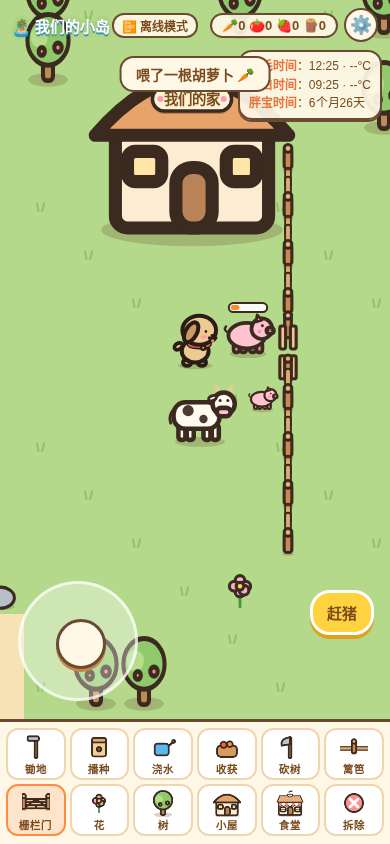
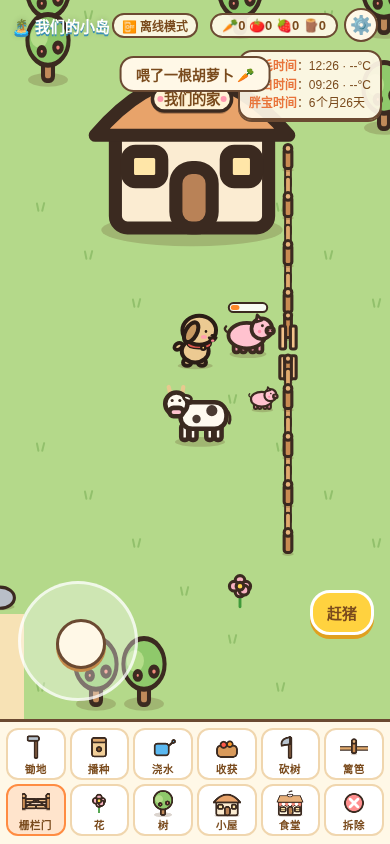
v25: 胖宝 hunger + feeding picker

Changed region(s): [[0.4, 0.4621, 0.6154, 0.5237]]

diff --git a/js/baby.js b/js/baby.js
@@ -7,19 +7,42 @@ const BABY_SAY={
  hop:['胖宝蹦蹦跳跳','胖宝超开心！','胖宝转圈圈','胖宝跳起来了'],
  carry:['放开我~','胖宝挣扎中','胖宝要下来','幸福的胖宝','胖宝蹬蹬腿','被抱住啦！','胖宝跑不掉了','胖宝在爸爸妈妈怀里'],
  dad:['爸爸的胡子扎扎的','爸爸举高高！','胖宝想爸爸好久了','爸爸什么时候回家呀','爸爸抱得好稳','胖宝抓爸爸头发','爸爸身上暖暖的','胖宝骑在爸爸肩上','爸爸讲故事给胖宝听','胖宝亲了爸爸一口','爸爸最厉害了','胖宝给爸爸摸摸头','爸爸的肚子软软的','爸爸不要走好不好','胖宝在爸爸怀里偷笑'],
- mom:['妈妈香香的','妈妈辛苦啦','胖宝要妈妈亲亲','妈妈最好了','胖宝在妈妈怀里睡着了','胖宝要吃奶奶','妈妈的手软软的','胖宝蹭蹭妈妈','妈妈唱歌给胖宝听','胖宝最爱妈妈了','妈妈抱抱就不哭了','胖宝帮妈妈捶捶背','妈妈今天好漂亮','胖宝在妈妈怀里撒娇','妈妈陪胖宝玩'],
+ mom:['妈妈香香的','妈妈辛苦啦','胖宝要妈妈亲亲','妈妈最好了','胖宝在妈妈怀里睡着了','胖宝要妈妈摸摸头','妈妈的手软软的','胖宝蹭蹭妈妈','妈妈唱歌给胖宝听','胖宝最爱妈妈了','妈妈抱抱就不哭了','胖宝帮妈妈捶捶背','妈妈今天好漂亮','胖宝在妈妈怀里撒娇','妈妈陪胖宝玩'],
+ hungry:['胖宝饿饿…','肚子咕噜咕噜','胖宝没力气了','胖宝想吃胡萝卜','胖宝闻到菜香了','胖宝肚肚瘪瘪的','给胖宝一点吃的嘛'],
+ veryhungry:['胖宝好饿好饿…','肚子咕噜咕噜咕噜！','胖宝饿得走不动了','呜呜，要吃饭饭'],
+ hdad:['爸爸，胖宝饿饿…','爸爸给胖宝种胡萝卜吧','爸爸的肚子也咕噜了吗','爸爸快去收菜菜'],
+ hmom:['妈妈，胖宝饿饿…','妈妈给胖宝做好吃的','妈妈，肚子咕噜咕噜','妈妈喂胖宝吃菜菜'],
+ full:['胖宝吃饱饱啦！','胖宝肚肚圆滚滚','好开心呀！','胖宝浑身是劲','胖宝想去探险！','吃饱了就要玩！'],
  tap:['最喜欢爸爸妈妈了！','胖宝爱你哦 ❤','抱抱～','嘿嘿，好痒','亲亲！','胖宝今天很乖哦','要一直在一起哦','爸爸妈妈辛苦啦']};
 const pick=a=>a[Math.random()*a.length|0];
+// ---- hunger: state.baby.fed[role]={full,at}; newest 'at' wins (each phone writes only its own key => no merge fights) ----
+const FOOD={carrot:{name:'胡萝卜',ic:'🥕',amt:25},tomato:{name:'番茄',ic:'🍅',amt:30},strawberry:{name:'草莓',ic:'🍓',amt:35}};
+const myRole=()=>window.Sync&&Sync.auth?Sync.auth.role:'me';
+function feedRec(){babyName();const f=state.baby.fed||{};let b=null;for(const k in f){const v=f[k];if(v&&v.at&&(!b||v.at>b.at))b=v}return b}
+function fullness(now=Date.now()){const b=feedRec();if(!b){state.baby.fed={[myRole()]:{full:80,at:now}};save();return 80}return Math.max(0,Math.min(100,b.full-(now-b.at)/36e5*7.5))}
+const hunger=()=>{const f=fullness();return f>=80?0:f>=55?1:f>=10?2:3}; // 0 full,1 ok,2 hungry(~6h),3 very hungry(~12h)
+function feedBaby(k){if(!(state.inv[k]>0))return toast('没有'+FOOD[k].name+'了');state.inv[k]--;const f=Math.min(100,fullness()+FOOD[k].amt);state.baby.fed=state.baby.fed||{};state.baby.fed[myRole()]={full:+f.toFixed(1),at:Date.now()};
+ save();renderInv();baby.heart=1.6;say(f>=80?pick(['好好吃！胖宝吃饱饱啦','吧唧吧唧，好香！','谢谢爸爸妈妈～']):pick(['好好吃！还想要','吧唧吧唧','胖宝舔舔嘴巴']));toast('胖宝吃了'+FOOD[k].ic+FOOD[k].name);renderPick()}
+function lineFor(kind){const h=hunger();if(h>=2){const dad=(localStorage.getItem('our-island-char')||'yellow')==='yellow';
+  if((kind==='carry'||kind==='tap')&&Math.random()<.5)return pick(BABY_SAY[dad?'hdad':'hmom']);return pick(BABY_SAY[h===3?'veryhungry':'hungry'])}
+ if(h===0&&Math.random()<.5)return pick(BABY_SAY.full);return null}
+const pickEl=document.getElementById('foodPick'),feedBabyBtn=document.getElementById('feedBaby');
+function renderPick(){const L=Object.keys(FOOD).filter(k=>state.inv[k]>0);
+ document.getElementById('foodList').innerHTML=L.length?L.map(k=>`<button data-food="${k}">${FOOD[k].ic}<b>${FOOD[k].name}</b><small>×${state.inv[k]}</small></button>`).join(''):'<p class="empty">没有吃的了，快去种菜收获吧</p>';
+ document.getElementById('foodFull').textContent='饱饱度 '+Math.round(fullness())+'%'}
+feedBabyBtn.addEventListener('pointerdown',e=>{e.preventDefault();renderPick();pickEl.classList.remove('hidden')});
+document.getElementById('foodList').addEventListener('click',e=>{const b=e.target.closest('[data-food]');if(b)feedBaby(b.dataset.food)});
+document.getElementById('foodClose').onclick=()=>pickEl.classList.add('hidden');
 const baby={x:0,y:0,dir:0,mode:'idle',t:1,tx:0,ty:0,phase:0,bub:'',bubT:0,nextBub:3,hop:0,heart:0,init:false,carried:false,sprint:0,puffs:[]};
 function babySprint(){const p=state.player;for(let k=0;k<24;k++){const a=Math.atan2(baby.y-p.y,baby.x-p.x)+(Math.random()-.5)*1.6,d=4+Math.random()*2,tx=baby.x+Math.cos(a)*d,ty=baby.y+Math.sin(a)*d;
   if(babyFree(tx,ty)){baby.mode='walk';baby.t=2.6;baby.tx=tx;baby.ty=ty;baby.sprint=2.2;say('胖宝狂奔');return true}}return false}
 const grabBtn=document.getElementById('grab');
 function setGrab(show,txt){if(grabBtn.classList.contains('hidden')===show)grabBtn.classList.toggle('hidden',!show);if(grabBtn.textContent!==txt)grabBtn.textContent=txt}
 grabBtn.addEventListener('pointerdown',e=>{e.preventDefault();baby.carried?babyDrop():babyGrab()});
-function carryLine(){return Math.random()<.4?pick(BABY_SAY[(localStorage.getItem('our-island-char')||'yellow')==='yellow'?'dad':'mom']):pick(BABY_SAY.carry)}
-function babyGrab(){baby.carried=true;baby.mode='carry';baby.nextBub=1.5;say(carryLine())}
+function carryLine(){const h=lineFor('carry');if(h)return h;return Math.random()<.4?pick(BABY_SAY[(localStorage.getItem('our-island-char')||'yellow')==='yellow'?'dad':'mom']):pick(BABY_SAY.carry)}
+function babyGrab(){feedBabyBtn.classList.remove('hidden');baby.carried=true;baby.mode='carry';baby.nextBub=1.5;say(carryLine())}
 function babyDrop(){const p=state.player,d=[[0,1],[0,-1],[-1,0],[1,0]][p.dir];const c=[d,[0,1],[1,0],[-1,0],[0,-1]];
- for(const[dx,dy]of c){const x=Math.floor(p.x)+dx+.5,y=Math.floor(p.y)+dy+.5;if(babyFree(x,y)){baby.x=x;baby.y=y;baby.carried=false;if(Math.random()<.5&&babySprint())return;babyMode('hop',1.2);say(pick(['胖宝自由啦～','胖宝落地啦','胖宝开心地蹦了蹦','胖宝站稳啦']));return}}toast('这里放不下胖宝')}
+ for(const[dx,dy]of c){const x=Math.floor(p.x)+dx+.5,y=Math.floor(p.y)+dy+.5;if(babyFree(x,y)){baby.x=x;baby.y=y;baby.carried=false;feedBabyBtn.classList.add('hidden');pickEl.classList.add('hidden');if(Math.random()<.5&&babySprint())return;babyMode('hop',1.2);say(pick(['胖宝自由啦～','胖宝落地啦','胖宝开心地蹦了蹦','胖宝站稳啦']));return}}toast('这里放不下胖宝')}
 function babyHome(){for(const k in state.obj)if(state.obj[k]==='house'||state.obj[k]==='canteen')return[k%W+.5,(k/W|0)+2.5];return[state.player.x,state.player.y+1]}
 function babyFree(x,y){const r=.2;return![[x-r,y-.05],[x+r,y-.05],[x-r,y+.15],[x+r,y+.15]].some(([a,b])=>blocked(Math.floor(a),Math.floor(b)))}
 function babyName(){state.baby=state.baby||{name:'胖宝'};return state.baby.name||'胖宝'}
@@ -34,13 +57,13 @@ function babyUpdate(dt){if(!baby.init){const[hx,hy]=babyHome();baby.x=hx+1;baby.
  if(baby.carried){baby.x=p.x;baby.y=p.y;baby.phase+=dt*40;setGrab(true,'放下胖宝');if(baby.nextBub<0){say(carryLine());baby.nextBub=3+Math.random()*4}return}
  const dp=Math.hypot(p.x-baby.x,p.y-baby.y);setGrab(dp<1.5,'抓住胖宝');
  if(dp<.6&&baby.mode!=='walk'){babyMode('walk',4)}
- if(baby.mode==='walk'){const dx=baby.tx-baby.x,dy=baby.ty-baby.y,d=Math.hypot(dx,dy),sp=1.6*dt*(baby.sprint>0?2.7:1);if(baby.sprint>0&&Math.random()<dt*12)baby.puffs.push({x:baby.x,y:baby.y+.1,t:.5});
-  if(d<.1||baby.t<0){const r=Math.random();babyMode(r<.45?'idle':r<.65?'sit':r<.8?'sleep':'hop',r<.65?2+Math.random()*4:r<.8?6+Math.random()*6:1.5)}
+ if(baby.mode==='walk'){const dx=baby.tx-baby.x,dy=baby.ty-baby.y,d=Math.hypot(dx,dy),sp=1.6*dt*(baby.sprint>0?2.7:1)*[1.25,1,.6,.4][hunger()];if(baby.sprint>0&&Math.random()<dt*12)baby.puffs.push({x:baby.x,y:baby.y+.1,t:.5});
+  if(d<.1||baby.t<0){const r=Math.random();const h=hunger();if(h>=2)babyMode(r<.35?'idle':r<.85?'sit':'sleep',h===3?5+Math.random()*6:3+Math.random()*4);else if(h===0&&r<.35)babyMode('hop',1.5);else babyMode(r<.45?'idle':r<.65?'sit':r<.8?'sleep':'hop',r<.65?2+Math.random()*4:r<.8?6+Math.random()*6:1.5)}
   else{const vx=dx/d*sp,vy=dy/d*sp;baby.dir=Math.abs(dx)>Math.abs(dy)?(dx<0?2:3):(dy<0?1:0);let moved=false;
    if(babyFree(baby.x+vx,baby.y)){baby.x+=vx;moved=true}if(babyFree(baby.x,baby.y+vy)){baby.y+=vy;moved=true}if(!moved)babyMode('walk',3)}}
- else{if(baby.mode==='hop')baby.hop+=dt;if(baby.t<0)babyMode(Math.random()<.75?'walk':'hop',2+Math.random()*3)}
- if(baby.nextBub<0)say(pick(BABY_SAY[baby.mode]||BABY_SAY.idle))}
-function babyTap(wx,wy){if(baby.carried)return false;if(Math.hypot(wx-baby.x,wy-(baby.y-.35))>.7)return false;babyMode('hop',1.2);baby.heart=1.6;say(pick(BABY_SAY.tap));return true}
+ else{if(baby.mode==='hop')baby.hop+=dt;if(baby.t<0){const h=hunger();babyMode(Math.random()<[.85,.75,.45,.25][h]?'walk':h>=2?'sit':'hop',2+Math.random()*3)}}
+ if(baby.nextBub<0)say(lineFor(baby.mode)||pick(BABY_SAY[baby.mode]||BABY_SAY.idle))}
+function babyTap(wx,wy){if(baby.carried)return false;if(Math.hypot(wx-baby.x,wy-(baby.y-.35))>.7)return false;babyMode('hop',1.2);baby.heart=1.6;say(lineFor('tap')||pick(BABY_SAY.tap));return true}
 function babyDraw(){const b=baby;if(b.carried)return drawCarried();for(const f of b.puffs){ctx.globalAlpha=f.t*1.6;ctx.beginPath();ctx.arc(f.x*T,f.y*T,(1-f.t)*T*.35+4,0,7);ctx.fillStyle='#f3e6cc';ctx.fill();ctx.lineWidth=2;ctx.strokeStyle='#d8c39a';ctx.stroke()}ctx.globalAlpha=1;const sleeping=b.mode==='sleep',sit=b.mode==='sit'||sleeping;let jump=0;
  if(b.mode==='hop')jump=Math.abs(Math.sin(b.hop*7))*.35;
  const X=b.x*T,Y=(b.y-jump)*T,sz=T*1.05;
@@ -49,7 +72,7 @@ function babyDraw(){const b=baby;if(b.carried)return drawCarried();for(const f o
  const font=`900 ${T*.26}px "Yuanti SC","PingFang SC",sans-serif`;ctx.textAlign='center';ctx.textBaseline='middle';
  // name label
  const name=babyName(),ny=Y-sz*1.0;ctx.font=font;const nw=ctx.measureText(name).width+14;
- ctx.beginPath();ctx.roundRect(X-nw/2,ny-11,nw,22,11);ctx.fillStyle='rgba(255,255,255,.92)';ctx.fill();ctx.lineWidth=2;ctx.strokeStyle='#f5a623';ctx.stroke();ctx.fillStyle='#d9822b';ctx.fillText(name,X,ny+1);
+ ctx.beginPath();ctx.roundRect(X-nw/2,ny-11,nw,22,11);ctx.fillStyle='rgba(255,255,255,.92)';ctx.fill();ctx.lineWidth=2;ctx.strokeStyle='#f5a623';ctx.stroke();ctx.fillStyle='#d9822b';ctx.fillText(name,X,ny+1);babyBar(X,ny+13);
  // zzz
  if(sleeping){ctx.fillStyle='#6b8fd6';ctx.font=`900 ${T*.24}px sans-serif`;for(let k=0;k<3;k++){const ph=(performance.now()/900+k/3)%1;ctx.globalAlpha=1-ph;ctx.fillText('z',X+sz*.35+ph*14,ny-6-ph*22);}ctx.globalAlpha=1}
  // heart
@@ -66,4 +89,9 @@ function drawCarried(){const b=baby,p=state.player,X=p.x*T,Y=(p.y-.12)*T,sz=T*.8
  const ny=Y-sz*1.05;ctx.textAlign='center';ctx.textBaseline='middle';
  if(b.bubT>0){ctx.font=`800 ${T*.27}px "PingFang SC",sans-serif`;const tw=ctx.measureText(b.bub).width+20,by=ny-40;ctx.globalAlpha=Math.min(1,b.bubT*2);
   ctx.beginPath();ctx.roundRect(X-tw/2,by-15,tw,30,15);ctx.moveTo(X-6,by+15);ctx.lineTo(X,by+23);ctx.lineTo(X+6,by+15);ctx.fillStyle='#fff8e7';ctx.fill();ctx.lineWidth=2.5;ctx.strokeStyle='#e0a96d';ctx.stroke();ctx.fillStyle='#7a4b1d';ctx.fillText(b.bub,X,by+1);ctx.globalAlpha=1}
- const name=babyName();ctx.font=`900 ${T*.26}px "Yuanti SC","PingFang SC",sans-serif`;const nw=ctx.measureText(name).width+14;ctx.beginPath();ctx.roundRect(X-nw/2,ny-11-T*.35,nw,22,11);ctx.fillStyle='rgba(255,255,255,.92)';ctx.fill();ctx.lineWidth=2;ctx.strokeStyle='#f5a623';ctx.stroke();ctx.fillStyle='#d9822b';ctx.fillText(name,X,ny+1-T*.35)}
+ const name=babyName();ctx.font=`900 ${T*.26}px "Yuanti SC","PingFang SC",sans-serif`;const nw=ctx.measureText(name).width+14;ctx.beginPath();ctx.roundRect(X-nw/2,ny-11-T*.35,nw,22,11);ctx.fillStyle='rgba(255,255,255,.92)';ctx.fill();ctx.lineWidth=2;ctx.strokeStyle='#f5a623';ctx.stroke();ctx.fillStyle='#d9822b';ctx.fillText(name,X,ny+1-T*.35);babyBar(X,ny+13-T*.35)}
+function babyBar(X,Y){const f=fullness()/100,h=hunger(),w=T*.7;ctx.beginPath();ctx.roundRect(X-w/2,Y,w,8,4);ctx.fillStyle='rgba(255,255,255,.9)';ctx.fill();ctx.lineWidth=2;ctx.strokeStyle='#3b2a20';ctx.stroke();
+ if(f>0){ctx.beginPath();ctx.roundRect(X-w/2+2,Y+2,(w-4)*f,4,2);ctx.fillStyle=h>=2?'#ff6b6b':h===1?'#ffc94a':'#6fd07a';ctx.fill()}
+ if(h>=2){ctx.font=`${T*.3}px sans-serif`;ctx.textAlign='center';ctx.fillText(h===3?'💦':'💧',X+w/2+10,Y-8+Math.sin(performance.now()/300)*2)}else if(h===0&&(performance.now()/700|0)%3===0){ctx.font=`${T*.26}px sans-serif`;ctx.textAlign='center';ctx.fillText('✨',X+w/2+10,Y-6)}}
+
+window.BabyHunger={fullness,hunger,feedBaby,feedRec,lineFor};

diff --git a/index.html b/index.html
@@ -11,25 +11,26 @@
 <link rel="apple-touch-icon" href="icon-180.png">
 <link rel="icon" href="icon-192.png">
 <title>我们的小岛</title>
-<link rel="stylesheet" href="style.css?v=24">
+<link rel="stylesheet" href="style.css?v=25">
 </head><body>
 <header id="top"><div id="title">🏝 我们的小岛</div><div id="right"><div id="net"></div><div id="inv"></div><button id="gear">⚙</button></div></header>
 <div id="info"></div>
 <div id="menu" class="hidden"><div class="card"><b>选择我的小狗</b><div class="pups"><button data-char="yellow"><canvas width="96" height="96"></canvas>鸡毛（黄狗）</button><button data-char="white"><canvas width="96" height="96"></canvas>小白（白狗）</button></div><div id="who"></div><button id="logout">退出登录</button><button id="menuClose">好的</button></div></div>
 <main><canvas id="map"></canvas><div id="toast"></div>
 <div id="joy"><div id="knob"></div></div>
-<div id="pv" class="hidden"><button id="pvNo">✖</button><button id="pvOk">✔</button></div><button id="feed" class="hidden">喂猪 🥕</button><button id="drive" class="hidden">赶猪</button><button id="grab" class="hidden">抓住胖宝</button></main>
+<div id="pv" class="hidden"><button id="pvNo">✖</button><button id="pvOk">✔</button></div><button id="feed" class="hidden">喂猪 🥕</button><button id="drive" class="hidden">赶猪</button><button id="feedBaby" class="hidden">投喂胖宝</button><button id="grab" class="hidden">抓住胖宝</button></main>
 <div id="signDlg" class="hidden"><div class="card"><b>🏠 编辑门牌</b><input id="signIn" maxlength="12" placeholder="我们的家" enterkeyhint="done" autocomplete="off"><div class="row"><button id="signCancel">取消</button><button id="signOk">好的</button></div></div></div>
 <div id="house" class="hidden"><div class="hhead"><button id="houseClose">‹ 出门</button><h2 id="houseTitle">🏠 我们的家</h2><span></span></div>
 <div class="hbody"><div class="emptyRoom">🛋<p>这里还空空的，以后可以装修~</p></div><div class="food"><h3>💕 见面了一起吃</h3><ul id="wishList"></ul>
 <button id="addBtn">＋ 添加想吃的</button>
 <form id="wishForm" class="hidden" autocomplete="off"><b id="formTitle">想一起吃…</b><input name="name" maxlength="40" placeholder="吃什么（必填）" enterkeyhint="next"><input name="note" maxlength="200" placeholder="备注：哪家店、什么口味（可选）"><input name="url" type="url" inputmode="url" placeholder="链接（可选，比如小红书/抖音）" autocapitalize="off"><div class="row"><button type="button" id="formCancel">取消</button><button type="submit">保存</button></div></form>
 <h3 id="doneHead" class="hidden">✅ 吃过啦</h3><ul id="doneList"></ul></div></div></div>
+<div id="foodPick" class="hidden"><div class="card"><b>🍽 投喂胖宝</b><p id="foodFull"></p><div id="foodList"></div><button id="foodClose">好的</button></div></div>
 <div id="seeds" class="hidden"></div>
 <nav id="toolbar"></nav>
 <div id="gate" class="hidden"><div class="card" id="gateBody"></div></div>
-<script src="js/store.js?v=24"></script>
-<script src="js/vendor/supabase.js?v=24"></script>
-<script src="js/sync.js?v=24"></script>
+<script src="js/store.js?v=25"></script>
+<script src="js/vendor/supabase.js?v=25"></script>
+<script src="js/sync.js?v=25"></script>
 <script>if('serviceWorker' in navigator){navigator.serviceWorker.register('sw.js',{updateViaCache:'none'}).then(r=>r&&r.update()).catch(()=>{});let d=0;navigator.serviceWorker.addEventListener('controllerchange',()=>{if(!d){d=1;location.reload()}})}</script>
 </body></html>

diff --git a/style.css b/style.css
@@ -77,3 +77,6 @@ body.online #menu .card>b{display:none}#title{white-space:nowrap;font-size:15px}
 #pv{position:absolute;left:50%;bottom:130px;transform:translateX(-50%);display:flex;gap:28px;z-index:5}#pv.hidden{display:none}#pv button{width:68px;height:68px;border-radius:50%;border:4px solid #fff;font-size:30px;font-weight:900;color:#fff;box-shadow:0 4px 0 rgba(0,0,0,.2)}#pvOk{background:#4cc36b}#pvNo{background:#f06464}
 #drive{bottom:84px}#feed{bottom:138px;background:#ffb070;box-shadow:0 4px 0 #d9822b}
 #pv{bottom:40px}
+#feedBaby{position:absolute;right:16px;bottom:192px;z-index:5;border:3px solid #fff;background:#ff9ab0;color:#fff;font-weight:900;font-size:15px;border-radius:20px;padding:9px 14px;box-shadow:0 4px 0 #e07890;text-shadow:0 1px 0 #e07890}
+#foodPick{position:fixed;inset:0;background:rgba(40,25,15,.35);display:flex;align-items:center;justify-content:center;z-index:30}#foodPick .card{background:#fff8e7;border:3px solid #6b4a32;border-radius:20px;padding:16px;width:270px;text-align:center;color:#7a4b1d}#foodPick p{margin:6px 0 10px;font-weight:700}
+#foodList{display:flex;gap:10px;justify-content:center;flex-wrap:wrap;margin-bottom:12px}#foodList button{width:72px;border:2px solid #f0d6ae;border-radius:14px;background:#fff;font-size:28px;padding:6px 0;display:flex;flex-direction:column;align-items:center;color:#7a4b1d}#foodList b{font-size:13px}#foodList small{font-size:12px}#foodList .empty{font-size:14px;color:#a07a50}#foodClose{border:0;border-radius:14px;background:#ff8c42;color:#fff;font-weight:900;padding:9px 30px;font-size:15px}

diff --git a/sw.js b/sw.js
@@ -1,4 +1,4 @@
-const C='island-v24',F=['./','index.html','style.css?v=24','js/store.js?v=24','js/sprites.js?v=24','js/game.js?v=24','js/baby.js?v=24','js/animals.js?v=24','js/info.js?v=24','js/sync.js?v=24','js/vendor/supabase.js?v=24','manifest.webmanifest','icon-180.png'];
+const C='island-v25',F=['./','index.html','style.css?v=25','js/store.js?v=25','js/sprites.js?v=25','js/game.js?v=25','js/baby.js?v=25','js/animals.js?v=25','js/info.js?v=25','js/sync.js?v=25','js/vendor/supabase.js?v=25','manifest.webmanifest','icon-180.png'];
 self.addEventListener('install',e=>{e.waitUntil(caches.open(C).then(c=>c.addAll(F)));self.skipWaiting()});
 self.addEventListener('activate',e=>e.waitUntil(caches.keys().then(k=>Promise.all(k.filter(x=>x!==C).map(x=>caches.delete(x)))).then(()=>self.clients.claim())));
 self.addEventListener('fetch',e=>{const u=new URL(e.request.url);

diff --git a/js/sync.js b/js/sync.js
@@ -3,7 +3,7 @@
 const SB_URL='https://api.pangzaixiaodao.party',SB_KEY='sb_publishable_DqsCbDSeAxe26HP8XWFPIw_nCulbx0z';
 const K_AUTH='our-island-auth',K_BAK='our-island-backup',K_BASE='our-island-cloud-base';
 const ROLES={jimao:{name:'鸡毛',char:'yellow'},xiaobai:{name:'小白',char:'white'}};
-const GAME=['js/sprites.js','js/game.js','js/baby.js','js/info.js','js/animals.js'],VER='24';
+const GAME=['js/sprites.js','js/game.js','js/baby.js','js/info.js','js/animals.js'],VER='25';
 const L=LocalStore,J=JSON.stringify,$=id=>document.getElementById(id);
 let sb=null;try{sb=window.supabase.createClient(SB_URL,SB_KEY,{auth:{persistSession:false,autoRefreshToken:false}})}catch(e){console.warn('supabase lib',e)}
 let auth=null;try{auth=JSON.parse(localStorage.getItem(K_AUTH))}catch(e){}
